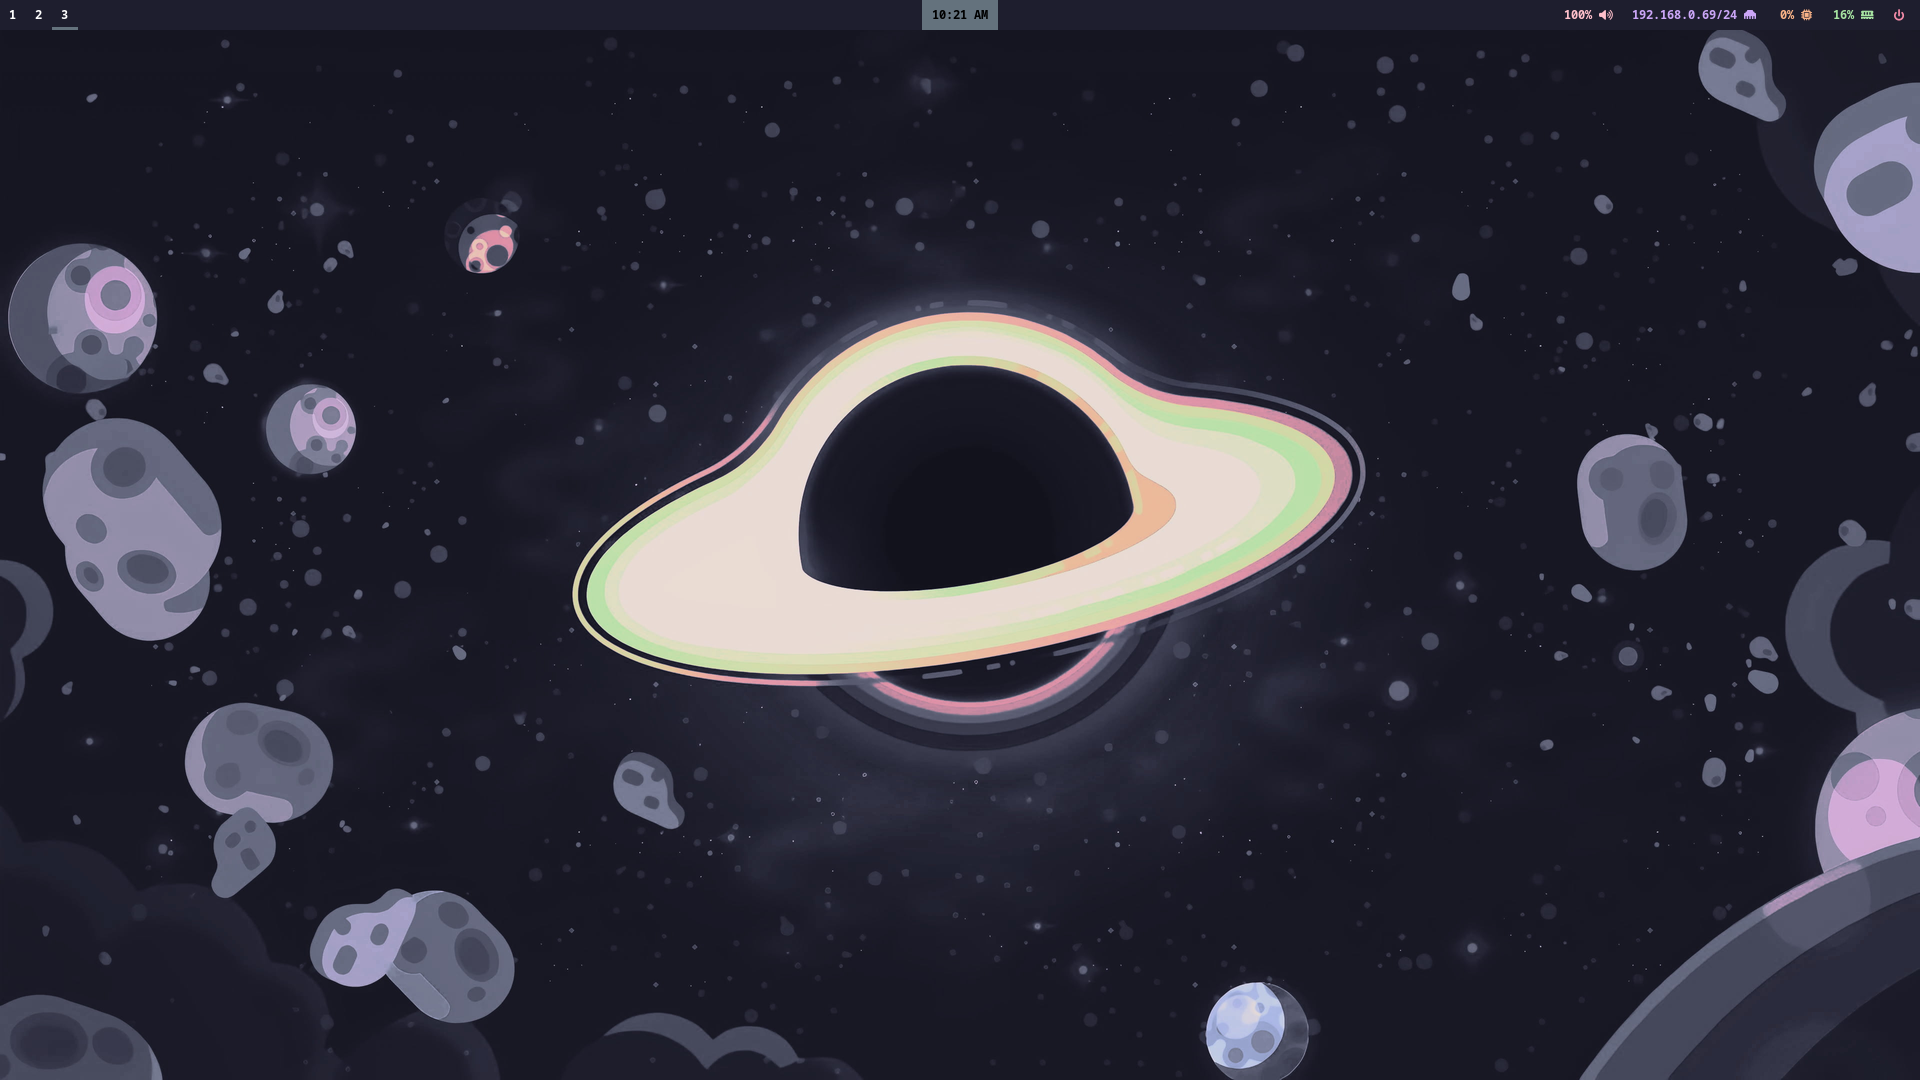
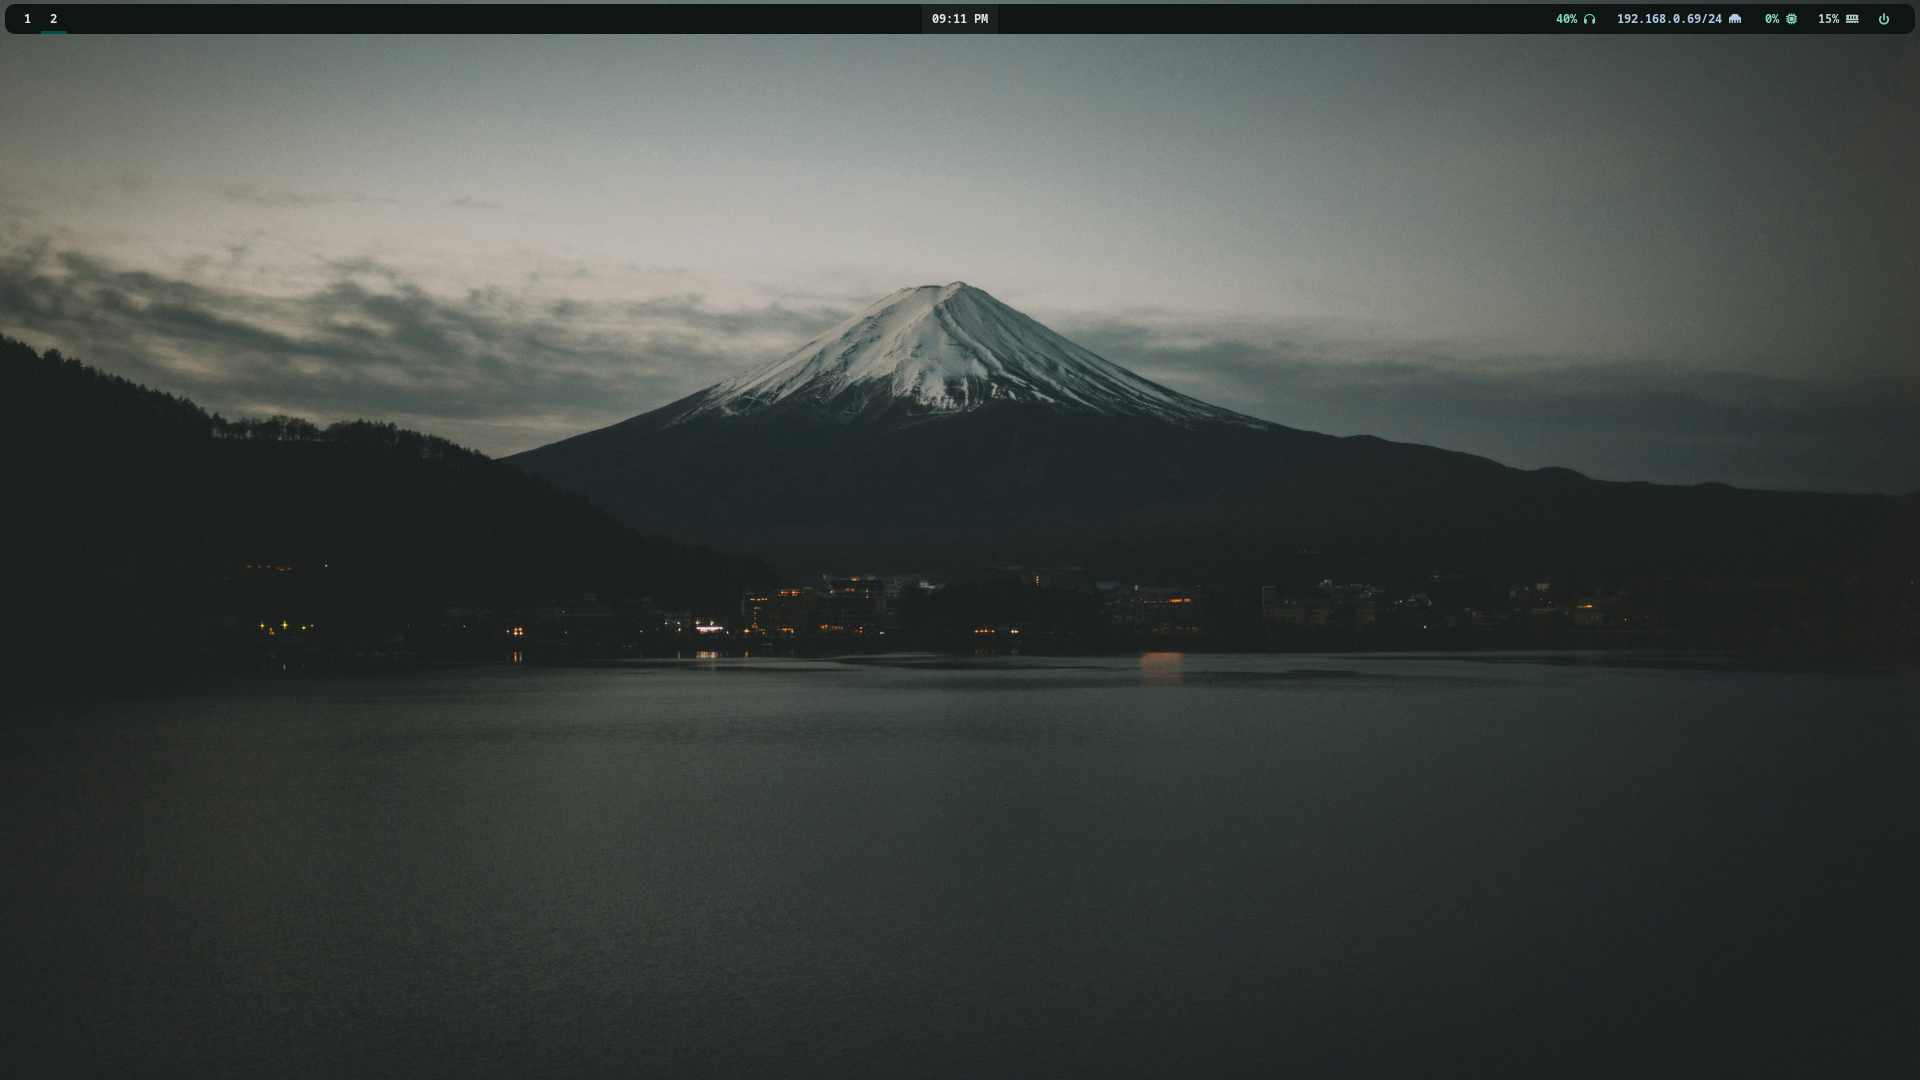
changed screenshots

diff --git a/README.md b/README.md
@@ -34,11 +34,9 @@
 ## Screenshots
 
 ![desktop](screenshots/desktop.png)
-![waybar](screenshots/waybar.png)
 ![rofi](screenshots/rofi.png)
 ![wallpaper switcher](screenshots/rofi_wall_switcher.png)
 
 ## Credits & Acknowledgments
 
 * **Rofi Theme:** Based on [outtheme-rofi-theme](https://github.com/OuterFrog/outtheme-rofi-theme) by **OuterFrog** (with minor edits).
-* **Catppuccin:** Colors scheme by the [Catppuccin Community](https://github.com/catppuccin/catppuccin).
